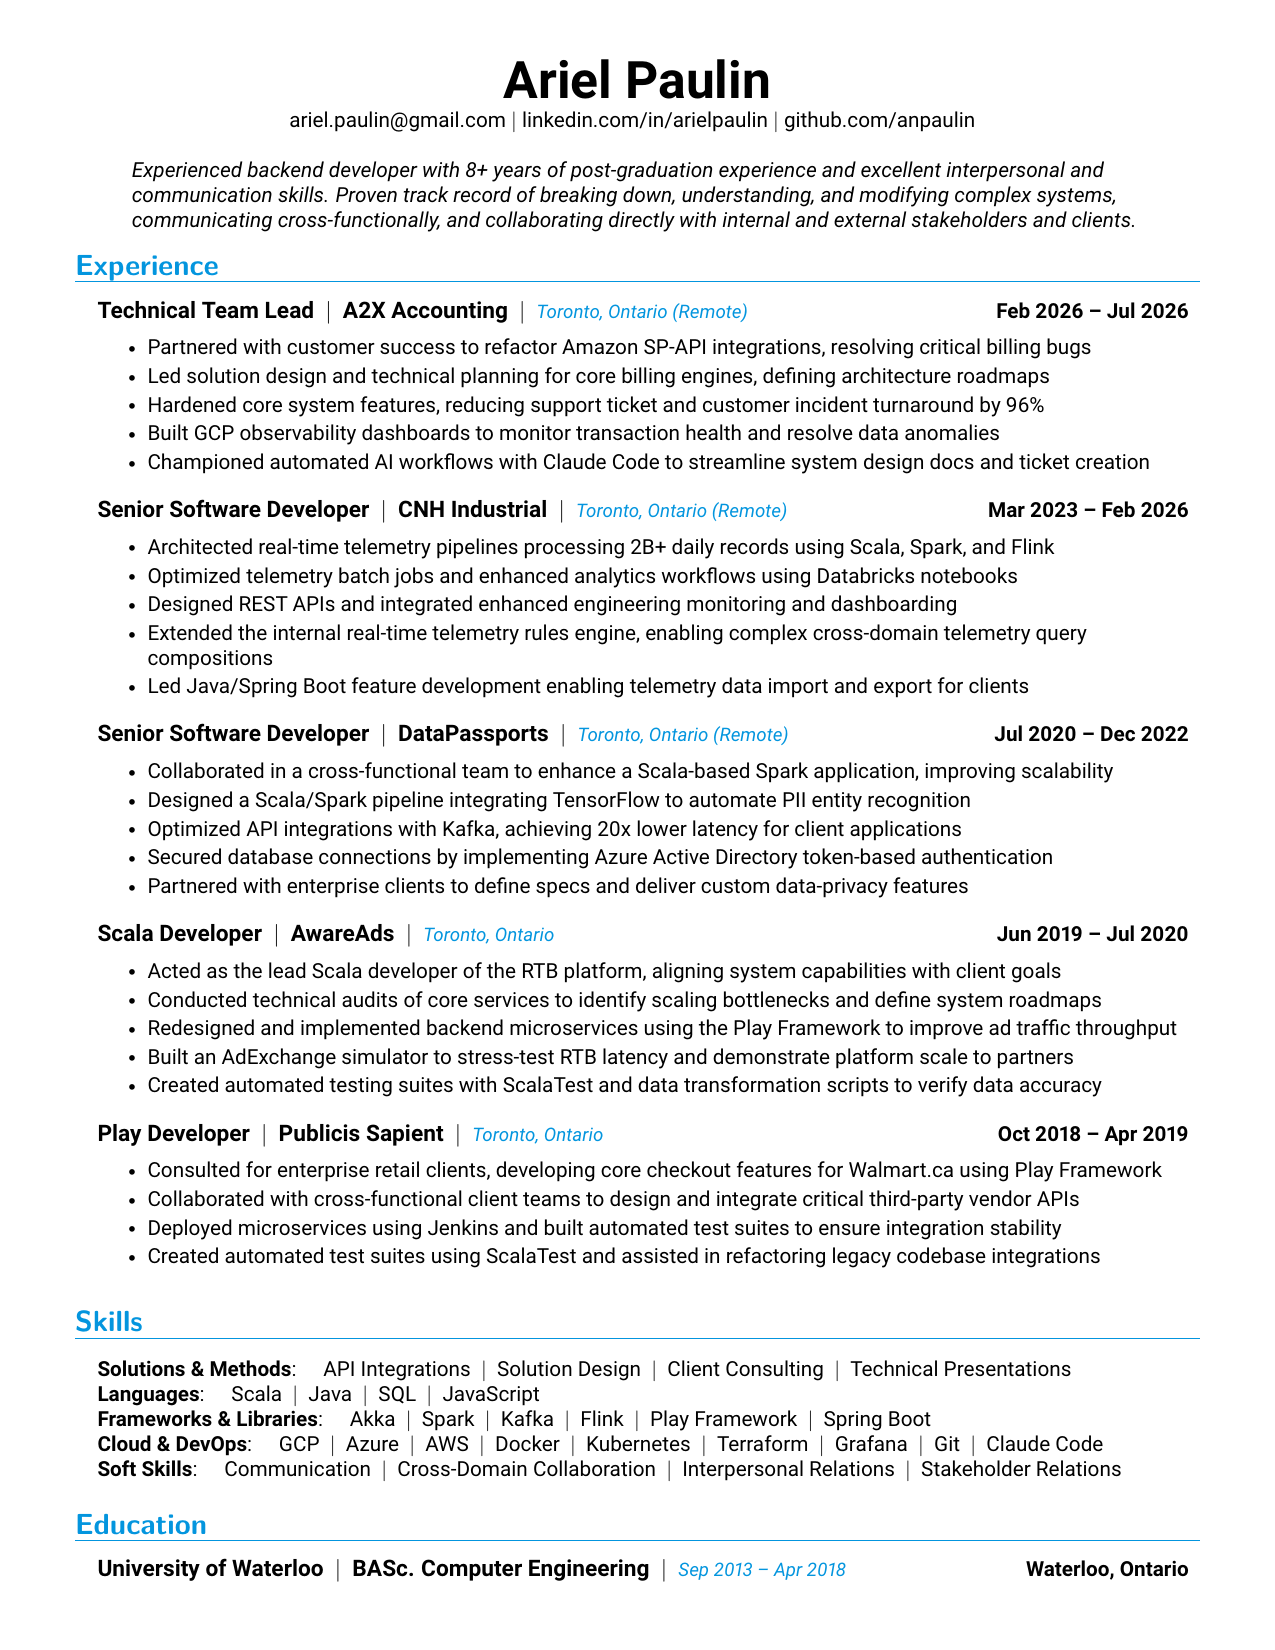
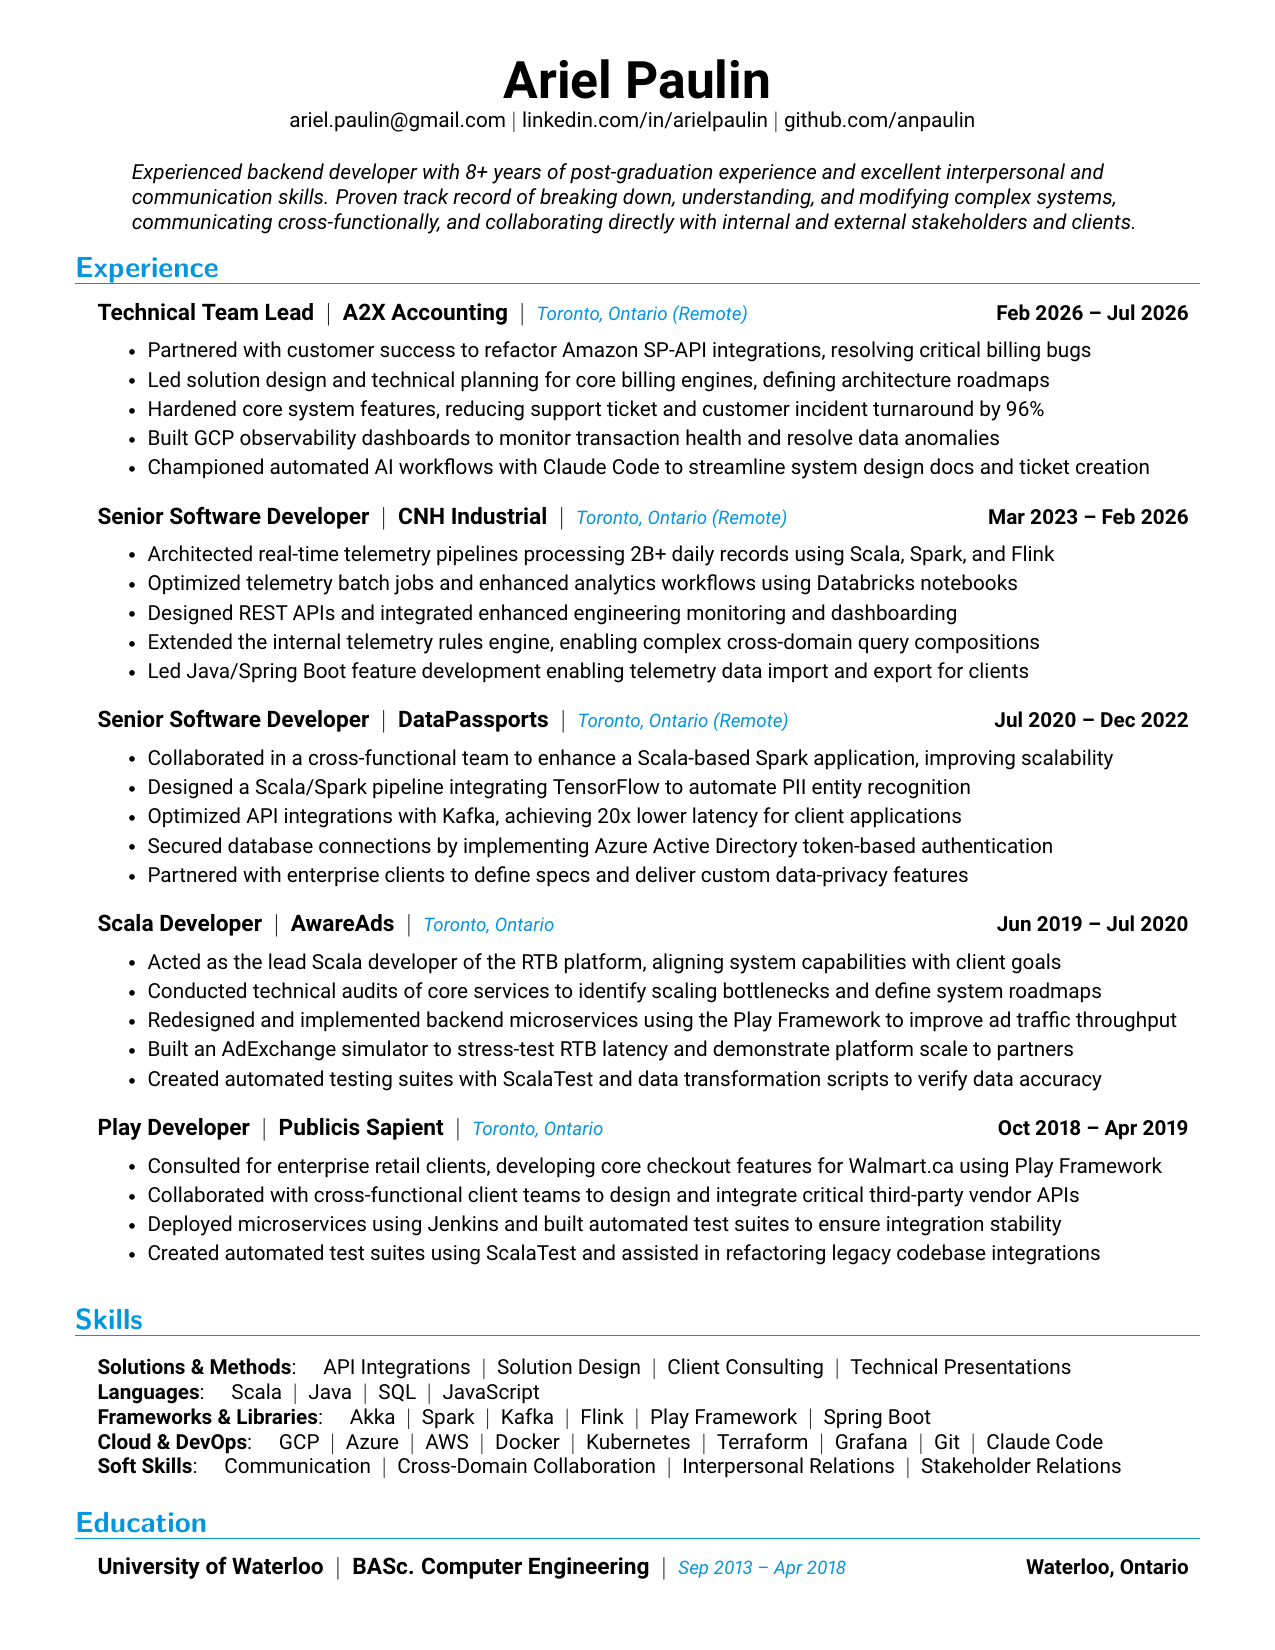
CNH: shorten rules engine bullet to fit on one line

diff --git a/se/experience/cnh.tex b/se/experience/cnh.tex
@@ -5,6 +5,6 @@
     \resumeItem{Architected real-time telemetry pipelines processing 2B+ daily records using Scala, Spark, and Flink}
     \resumeItem{Optimized telemetry batch jobs and enhanced analytics workflows using Databricks notebooks}
     \resumeItem{Designed REST APIs and integrated enhanced engineering monitoring and dashboarding}
-    \resumeItem{Extended the internal real-time telemetry rules engine, enabling complex cross-domain telemetry query compositions}
+    \resumeItem{Extended the internal telemetry rules engine, enabling complex cross-domain query compositions}
     \resumeItem{Led Java/Spring Boot feature development enabling telemetry data import and export for clients}
   \resumeItemListEnd

diff --git a/experience/cnh.tex b/experience/cnh.tex
@@ -5,6 +5,6 @@
     \resumeItem{Architected robust, real-time telemetry pipelines processing 2B+ daily records using Scala, Spark, and Flink}
     \resumeItem{Optimized batch jobs and enhanced analytics workflows using Databricks notebooks}
     \resumeItem{Designed REST APIs and integrated enhanced engineering monitoring and dashboarding}
-    \resumeItem{Extended the internal real-time telemetry rules engine, enabling complex cross-domain telemetry query compositions}
+    \resumeItem{Extended the internal telemetry rules engine, enabling complex cross-domain query compositions}
     \resumeItem{Spearheaded Java/Spring Boot feature development enabling data import and export for users}
   \resumeItemListEnd
